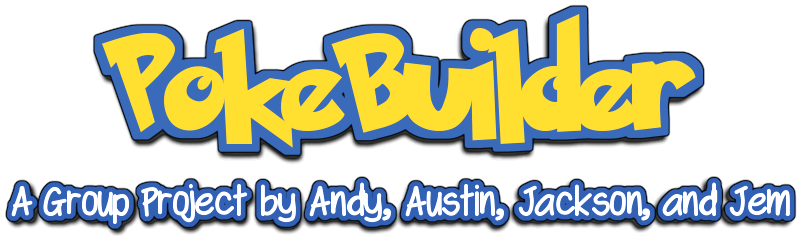
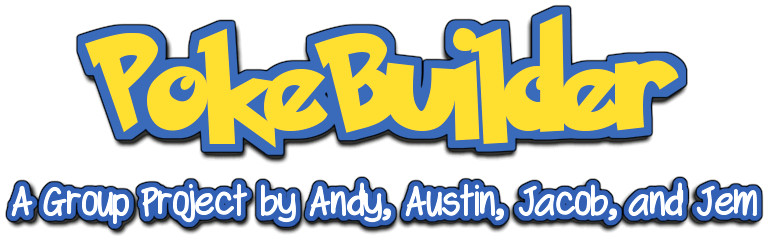
Added user story and fixed main project picture

diff --git a/README.md b/README.md
@@ -2,6 +2,15 @@
 ## Our Project
 * We set out to build a site where you can look up the stats of any Pokemon by either name or number.
 
+## User Story
+* GIVEN a need to search for a Pokemon
+* WHEN I search for a Pokemon by typing name or number in the search field and press the GENERATE button.
+* THEN a high-quality, sprite representing a Pokemon and its abilities are dynamically generated.
+* WHEN I press the save button
+* THEN the last Pokemon generated will be saved to localstorage
+* WHEN I select the delete button.
+* THEN the last Pokemon searched is removed from the screen.
+
 ## MVP - Function
 * When I search the name of number of a pokemon and press the Enter key the Pokemon sprite displays up and lists a few abilities <br>
 
